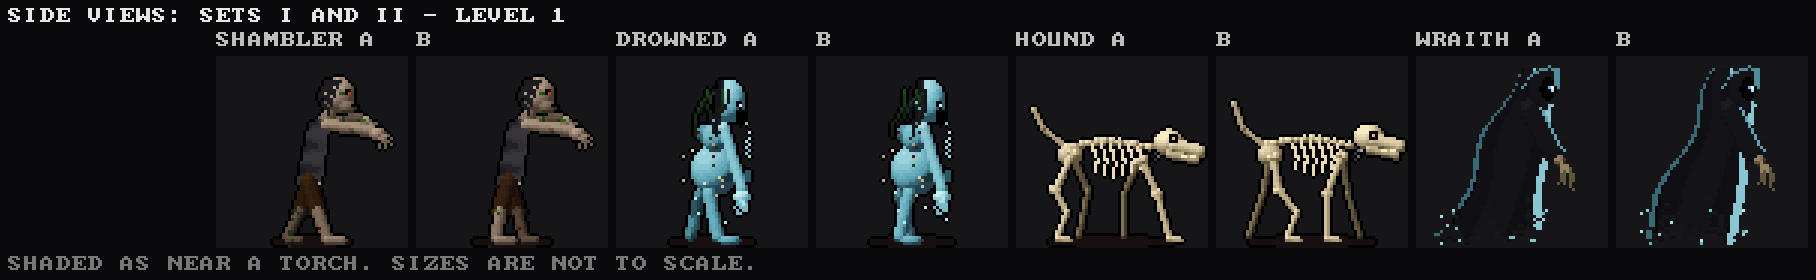
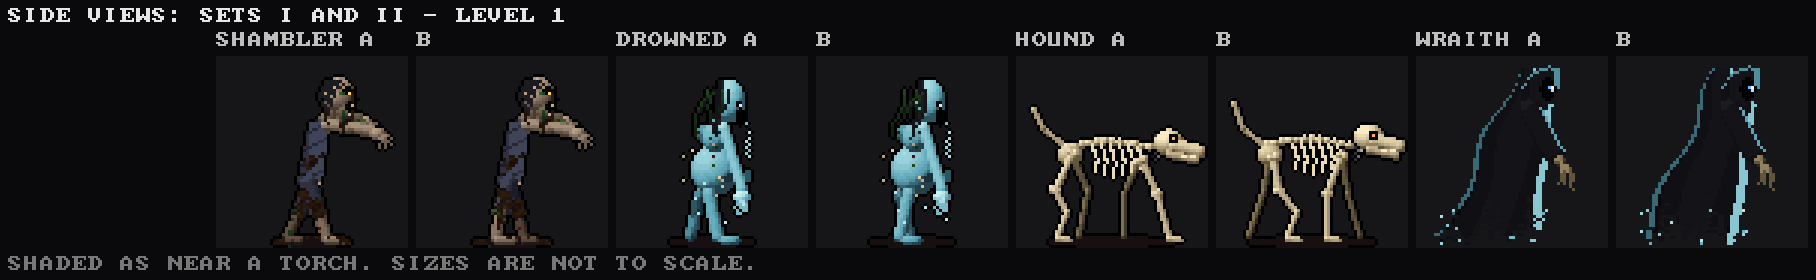
Art pass: the shambler, the buried up again
A hand-drawn face (SHAMB_HEAD): sunken sockets with a sulphur light in
them, the nose rotted to two holes, the jaw dropped on a few yellowed
teeth, hair in clumps. Its shirt is burial linen now, wound round it in
bands, and its legs are bound in it; grave-dirt is clotted on it, more
towards its feet, and roots come out of the tear in its chest. Its ranks:
more linen and grave-mould, frost and a torn ear, an arrow and old blood,
charred under an iron circlet with a grave's shackle, gilt teeth and gold.
The side view matches. Its poses, rising and falling are kept.

Art only: a dream run's events are unchanged; ASan clean.

Claude-Session: https://claude.ai/code/session_015ifzKucNXU48yoPLrSFXC9

diff --git a/src/crawl_art.c b/src/crawl_art.c
@@ -3998,6 +3998,13 @@ static void soil(float cx, float w, int ground, uint32_t seed) {
     for (int i = 0; i < 5; i++) cv_px((int)(cx + (h01(i, 5, seed) - 0.5f) * w * 1.6f), ground - 3 - (int)(5 * h01(i, 6, seed)), sh(R_WOOD, 0.3f));   /* flung earth */
 }
 
+/* the shambler's face (docs/InitialArtPass.md section 8): sunken sockets, the nose rotted to two holes, the jaw dropped
+ * open on yellowed teeth, hair in clumps; hex R_WARM (PF_FLESH), g-v R_IRON for the hair */
+static const char *const SHAMB_HEAD[16] = {
+    "...hjjhj.h...", "..hj6787jh...", ".hj689a986j..", ".j6789aa9875.", ".5679aaa9865.", ".46000900064.", ".460@797@064.",
+    "..520696025..", "..47a0a0a74..", "..4589a9854..", "..3e0e00e03..", "...2000002...", "...3000003...", "...4d00d04...",
+    "....57975....", ".....363.....",
+};
 /* The shambler: a corpse in rags out of its grave, one arm reaching, the other hanging.
  * pose: 0 walking, 1 grabbing, 2-3 climbing out (head and hands, then to the waist), 4 sinking to
  * its knees, 5 down. Its skin is R_WARM (PF_FLESH). */
@@ -4006,9 +4013,9 @@ static void spr_shambler(int id, float w, int pose) {
     int grab = pose == 1 || pose == 2 || pose == 3;
     if (pose == 5) {                                               /* down: lying along the floor, an arm flung out */
         cv_flat(32, 61.5f, 26, 2.5f, R_WARM + 1);
-        cv_capsule(40, 58, 56, 60, 2.6f, R_WOOD, 0.08f, 0.35f);    /* legs */
-        cv_capsule(40, 60, 55, 62, 2.4f, R_WOOD, 0.06f, 0.3f);
-        cv_ellipse(30, 57.5f, 11, 4.2f, R_IRON, 0.08f, 0.4f);      /* the shroud-rag over the chest */
+        cv_capsule(40, 58, 56, 60, 2.6f, R_STONE, 0.1f, 0.4f);     /* legs, bound */
+        cv_capsule(40, 60, 55, 62, 2.4f, R_STONE, 0.08f, 0.35f);
+        cv_ellipse(30, 57.5f, 11, 4.2f, R_STONE, 0.12f, 0.5f);     /* the shroud over the chest */
         cv_capsule(24, 55, 18, 47, 1.8f, R_WARM, 0.35f, 0.9f);      /* an arm up off the floor */
         dead_hand(17, 46, -1.9f, 0.35f, R_WARM, 1.0f);
         cv_ellipse(14, 58, 5.0f, 4.4f, R_WARM, 0.2f, 0.8f);        /* the head, on its side */
@@ -4027,14 +4034,14 @@ static void spr_shambler(int id, float w, int pose) {
         dead_hand(21 + w * 2.5f, sy + 19, 1.7f, 0.25f, R_WARM, 0.9f);
     }
     if (pose == 4) {                                                /* on its knees, shins under it */
-        cv_capsule(27, 50, 22, 61, 2.6f, R_WOOD, 0.08f, 0.35f);
-        cv_capsule(37, 50, 42, 61, 2.6f, R_WOOD, 0.08f, 0.35f);
+        cv_capsule(27, 50, 22, 61, 2.6f, R_STONE, 0.1f, 0.4f);
+        cv_capsule(37, 50, 42, 61, 2.6f, R_STONE, 0.1f, 0.4f);
         cv_capsule(22, 61, 14, 62, 2.0f, R_WARM, 0.3f, 0.75f);
         cv_capsule(42, 61, 50, 62, 2.0f, R_WARM, 0.3f, 0.75f);
     } else {
         for (int s = -1; s <= 1; s += 2) {                          /* legs: rags to the knee, bare shins, a dragging foot */
             float k = s * w, kx = 32 + s * 4.5f - k * 2.0f, fx = 32 + s * 5.0f - k * 3.5f;
-            cv_capsule(32 + s * 3.5f, 42, kx, 52, 2.8f, R_WOOD, 0.06f, 0.33f);
+            cv_capsule(32 + s * 3.5f, 42, kx, 52, 2.8f, R_STONE, 0.12f, 0.42f);   /* bound in linen strips */
             cv_capsule(kx, 51, fx, 60.5f, 2.0f, R_WARM, 0.3f, 0.85f);
             cv_ellipse(fx + s * 1.5f, 61.5f, 3.2f, 1.6f, R_WARM, 0.3f, 0.75f);
         }
@@ -4053,7 +4060,7 @@ static void spr_shambler(int id, float w, int pose) {
             if (y > bot - 1 && h01(x, 7, 215) < 0.3f) continue;     /* ragged hem */
             float fold = 0.5f + 0.5f * sinf((x - cx) * 0.9f + y * 0.15f);
             float v = 0.22f + 0.3f * (1.0f - fabsf(x + 0.5f - cx) / 12.0f) + 0.1f * fold;
-            cv_px(x, y, sh(R_IRON, v));
+            cv_px(x, y, sh(R_STONE, v - 0.02f - (((int)(y + x * 0.5f)) % 5 == 0 ? 0.12f : 0.0f)));   /* burial linen, wound round it, gone grey */
         }
     for (int i = 0; i < 2; i++) {                                   /* ribs showing in the tear, and the rot inside */
         float y = sy + 6 + i * 3.5f;
@@ -4079,28 +4086,58 @@ static void spr_shambler(int id, float w, int pose) {
         cv_capsule(45 + sway, sy + 3, 49 + sway - w * 0.5f, sy + 0, 1.9f, R_WARM, 0.4f, 0.95f);
         dead_hand(50 + sway - w * 0.5f, sy - 1, 0.9f, 0.3f, R_WARM, 1.1f);
     }
-    /* the head: sunken eyes with a dull light in them, a slack jaw, a few strands of hair */
-    cv_ellipse(hx, hy, 6.0f, 6.6f, R_WARM, 0.35f, 1.0f);
-    cv_ellipse(hx + 0.3f, hy + 4.3f, 4.0f, 2.8f, R_WARM, 0.25f, 0.75f);
-    for (int k = -1; k <= 1; k += 2) {
-        cv_flat(hx + k * 2.3f, hy - 0.5f, 1.6f, 1.5f, 0);
-        cv_eye((int)(hx + k * 2.3f), (int)(hy - 0.5f), (uint8_t)(R_FLAME + (grab ? 7 : 4)));
-    }
-    float mo = grab ? 2.2f : 1.2f;                                  /* the mouth, wider when it lunges */
-    cv_flat(hx + 0.4f, hy + 3.6f, 2.0f, mo, 0);
-    for (int i = -1; i <= 1; i++) cv_px((int)(hx + 0.4f + i * 1.2f), (int)(hy + 3.6f - mo + 1), sh(R_BONE, 0.7f));
+    /* the head (SHAMB_HEAD): sunken sockets with a sulphur light in them, the jaw dropped, hair in clumps */
+    grid_stamp(SHAMB_HEAD, 13, 16, (int)(hx - 6.0f), (int)(hy - 7.0f), R_WARM, R_IRON, (uint8_t)(R_FLAME + (grab ? 15 : 13)), 0);
     for (int i = 0; i < 7; i++) {                                   /* lank hair over the crown and down the sides */
-        float a = PI_F * (1.05f + 0.9f * i / 6.0f), x = hx + cosf(a) * 5.6f, y = hy + sinf(a) * 6.2f;
+        float a = PI_F * (1.05f + 0.9f * i / 6.0f), x = hx + cosf(a) * 6.0f, y = hy - 1.0f + sinf(a) * 6.5f;
         float drop = (i == 0 || i == 6) ? 6.0f + 3.0f * h01(i, 2, 219) : 1.5f;
         cv_line(x, y, x + (x < hx ? -0.8f : 0.8f), y + drop, sh(R_IRON, 0.18f + 0.12f * h01(i, 1, 219)));
     }
     cv_rot(R_WARM, 0.6f, 211);
+    for (int y = 0; y < TS; y++)                                    /* grave-dirt clotted on it, more of it lower down */
+        for (int x = 0; x < TS; x++) {
+            uint8_t c = cv_sprite[y * TS + x];
+            if (!((c > R_WARM && c < R_WARM + 16) || (c > R_STONE && c < R_STONE + 16))) continue;
+            float n = fbm(x / 3.0f, y / 3.0f, 16, 213);
+            if (n > 0.74f - (float)y * 0.004f) cv_px(x, y, sh(R_WOOD, 0.06f + 0.14f * h01(x, y, 214)));
+        }
+    if (pose <= 1)                                                  /* roots out of the tear in its chest, from the grave */
+        for (int k = 0; k < 3; k++) {
+            float x = cx - 3.0f + k * 1.5f, y = sy + 8.0f + k * 2.0f, a = 2.2f + k * 0.5f;
+            for (int i = 0; i < 6 + k * 2; i++) { a += (h01(k, i, 217) - 0.5f) * 0.9f; x += cosf(a) * 0.9f; y += sinf(a) * 0.9f; cv_px((int)x, (int)y, sh(R_WOOD, 0.3f + 0.15f * (i & 1))); }
+        }
     if (pose == 2 || pose == 3) {                                   /* climbing out of the grave */
         cv_sink(pose == 2 ? 30 : 14, 58);
         soil(32, 17, 58, 221);
     }
     cv_outline(0);
     cv_store(id);
+}
+
+/* the shambler's dressing by rank (docs/InitialArtPass.md 6.1): II more of its linen hanging, grave-mould; III frost and
+ * an ear torn away; IV an arrow in its shoulder and old blood from the tear and the mouth; V charred, an iron circlet and a
+ * grave's shackle on its wrist; gilded gold leaf and gilt teeth */
+static void shambler_dress(int id, float w, int grab) {
+    float sway = w * 0.8f, hx = 30 + sway, hy = 13 + (grab ? 1.0f : 0.0f), sy = 23, cx = 31.0f + sway * 0.7f;
+    for (int r = RK_II; r < NRANK; r++) {
+        dress_begin(id);
+        if (r != RK_GILDED) {
+            kit_rags(24 + sway, 43, 38 + sway, 44, 9, w, R_STONE, 0.1f, 0.35f, 0, 491);
+            kit_rags(22 + sway, sy, 26 + sway, sy + 1, 6, w * 0.5f, R_STONE, 0.1f, 0.35f, 0, 493);
+        }
+        if (r == RK_II) kit_moss(0.3f, 3, 495);
+        if (r == RK_III) kit_frost(0.75f, 497);
+        if (r >= RK_III && r != RK_GILDED) { cv_px((int)hx + 6, (int)hy - 2, 0); cv_px((int)hx + 6, (int)hy - 1, 0); cv_px((int)hx + 5, (int)hy - 3, 0); }   /* an ear gone */
+        if (r >= RK_IV && r != RK_GILDED) { kit_arrow(38 + sway, sy + 2, -0.9f, 8.0f); kit_blood(cx - 3, sy + 12, 10, 2, 499); kit_blood(hx, hy + 6, 7, 2, 501); }
+        if (r == RK_V) { kit_char(0.3f, 503); kit_crown(hx, hy - 7, 11, 505); if (!grab) kit_chain(21 + w * 2.5f, sy + 19, 19 + w * 2.0f, sy + 33, 1.5f, R_IRON); }
+        if (r == RK_GILDED) {
+            kit_gold(R_WARM, 0.5f, 507);
+            for (int y = (int)hy + 2; y < (int)hy + 8; y++)                                   /* gilt teeth */
+                for (int x = (int)hx - 5; x <= (int)hx + 5; x++) { uint8_t b = base_c(x, y); if (b >= R_WARM + 12 && b < R_WARM + 16) cv_px(x, y, (uint8_t)(R_GOLD + 11)); }
+            kit_chain(24 + sway, sy + 2, 38 + sway, sy + 2, 2.5f, R_GOLD);
+        }
+        dress_store(id, r, R_WARM);
+    }
 }
 
 /* the water a drowned one rises from, or the foul pool it leaves when it bursts */
@@ -5712,7 +5749,7 @@ static void spr_wskull_side(void) {                         /* the master profil
 static void spr_shambler_side(int id, float w) {
     cv_begin(cv_sprite, TS, TS);
     cv_flat(32, 62, 14, 1.8f, R_WARM + 1);
-    cv_capsule(31, 42, 31 - 3 * w, 52, 2.6f, R_WOOD, 0.04f, 0.25f);   /* the far leg */
+    cv_capsule(31, 42, 31 - 3 * w, 52, 2.6f, R_STONE, 0.05f, 0.28f);  /* the far leg, bound in linen */
     cv_capsule(31 - 3 * w, 52, 30 - 6 * w, 60.5f, 1.8f, R_WARM, 0.15f, 0.5f);
     cv_capsule(30 - 6 * w, 61.5f, 34 - 6 * w, 61.5f, 1.4f, R_WARM, 0.15f, 0.5f);
     cv_capsule(35, 22, 48, 21, 1.8f, R_WARM, 0.15f, 0.55f);        /* the far arm, out ahead */
@@ -5723,20 +5760,28 @@ static void spr_shambler_side(int id, float w) {
         for (int x = 24; x <= 40; x++) {
             uint8_t c = cv_sprite[y * TS + x];
             if (c < R_WARM || c >= R_WARM + 16 || (y > 41 && h01(x, 7, 961) < 0.35f)) continue;
-            cv_px(x, y, sh(R_IRON, 0.22f + 0.25f * (x - 24) / 16.0f + 0.08f * sinf(y * 0.8f)));
+            cv_px(x, y, sh(R_STONE, 0.2f + 0.25f * (x - 24) / 16.0f - (((int)(y + x * 0.5f)) % 5 == 0 ? 0.12f : 0.0f)));   /* burial linen, wound */
         }
-    cv_capsule(31, 42, 31 + 3 * w, 52, 2.8f, R_WOOD, 0.06f, 0.33f);   /* the near leg */
+    cv_capsule(31, 42, 31 + 3 * w, 52, 2.8f, R_STONE, 0.1f, 0.4f);    /* the near leg, bound */
     cv_capsule(31 + 3 * w, 52, 32 + 5 * w, 60.5f, 2.0f, R_WARM, 0.3f, 0.8f);
     cv_capsule(32 + 5 * w, 61.5f, 37 + 5 * w, 61.5f, 1.5f, R_WARM, 0.3f, 0.8f);
     cv_capsule(37, 21, 39, 16, 2.2f, R_WARM, 0.3f, 0.75f);         /* the neck, craned */
     cv_ellipse(41, 13, 5.2f, 6.0f, R_WARM, 0.35f, 1.0f);            /* the head, hung forward */
-    cv_ellipse(44, 17, 3.0f, 2.2f, R_WARM, 0.25f, 0.7f);           /* the slack jaw */
-    cv_flat(44, 12, 1.4f, 1.3f, 0); cv_px(44, 12, (uint8_t)(R_FLAME + 4));
-    cv_flat(46, 16.5f, 1.2f, 1.0f, 0);
+    cv_ellipse(43, 19, 3.0f, 2.6f, R_WARM, 0.2f, 0.6f);            /* the jaw, dropped */
+    cv_flat(44.5f, 17, 1.8f, 1.8f, 0);                              /* the mouth hanging open, a tooth or two */
+    cv_px(45, 16, sh(R_WARM, 0.95f)); cv_px(44, 19, sh(R_WARM, 0.9f));
+    cv_flat(44, 11.5f, 1.6f, 1.5f, 0); cv_eye(44, 12, (uint8_t)(R_FLAME + 13));   /* a sunken socket, its sulphur light */
+    cv_px(46, 14, 0);                                               /* the nose, rotted to a hole */
     for (int i = 0; i < 5; i++) cv_line(37 + i, 8, 34 + i * 0.8f, 13 + i * 1.5f, sh(R_IRON, 0.2f));   /* hair, down the back */
     cv_capsule(37, 23, 52, 25, 2.0f, R_WARM, 0.35f, 0.9f);         /* the near arm, reaching */
     dead_hand(54, 26, 0.6f, 0.35f, R_WARM, 1.1f);
     cv_rot(R_WARM, 0.6f, 963);
+    for (int y = 0; y < TS; y++)                                    /* grave-dirt clotted on it */
+        for (int x = 0; x < TS; x++) {
+            uint8_t c = cv_sprite[y * TS + x];
+            if (((c > R_WARM && c < R_WARM + 16) || (c > R_STONE && c < R_STONE + 16)) && fbm(x / 3.0f, y / 3.0f, 16, 213) > 0.74f - (float)y * 0.004f)
+                cv_px(x, y, sh(R_WOOD, 0.06f + 0.14f * h01(x, y, 214)));
+        }
     cv_outline(0);
     cv_store(id);
 }
@@ -9326,6 +9371,7 @@ void crawl_art_init(void) {
     for (int f = 0; f < 3; f++) spr_firepit(SP_FIREPIT_A + f, f);
     spr_totem(SP_TOTEM_A, 0); spr_totem(SP_TOTEM_B, 1);
     spr_shambler(SP_SHAMB_A, 1.0f, 0); spr_shambler(SP_SHAMB_B, -1.0f, 0); spr_shambler(SP_SHAMB_GRAB, 0.0f, 1);
+    shambler_dress(SP_SHAMB_A, 1.0f, 0); shambler_dress(SP_SHAMB_B, -1.0f, 0); shambler_dress(SP_SHAMB_GRAB, 0.0f, 1);
     spr_shambler(SP_SHAMB_RISE1, 0.0f, 2); spr_shambler(SP_SHAMB_RISE2, 0.0f, 3); spr_shambler(SP_SHAMB_D1, 0.0f, 4); spr_shambler(SP_SHAMB_D2, 0.0f, 5);
     spr_drowned(SP_DROWN_A, 1.0f, 0); spr_drowned(SP_DROWN_B, -1.0f, 1); spr_drowned(SP_DROWN_GRAB, 0.0f, 2);
     drowned_dress(SP_DROWN_A, 0); drowned_dress(SP_DROWN_B, 0); drowned_dress(SP_DROWN_GRAB, 1);

diff --git a/docs/InitialArtPass.md b/docs/InitialArtPass.md
@@ -735,7 +735,8 @@ of usage leaves the next one a true account. **Read it before anything else in t
 | 8. The imp | done, for the owner's eye | `IMP_HEAD` (17 by 17), `IMP_SIDE` (15 by 15), `imp_crust`, `spr_imp`, `spr_imp_side`, `imp_dress` in `src/crawl_art.c`; `grid_stamp` (any hand-drawn grid: hex the body's ramp, g-v a second ramp, A-P the fire, 0, @, .); review `docs/artpass/review/imp.png`, `imp_game.png`, `sides4.png` | re-proportioned (A4 c): no pot belly; a narrow chest, wiry arms to the knee with talons, reverse-jointed legs, ragged bat wings behind, a tail with an ember; the head a horned, torn-eared, long-muzzled face with slit eyes and a lit grin of needles, the right horn broken. Ranks: II mould and torn wings, III frost and a chipped horn, IV the fissures opened and a wound in the chest, V black crust veined all over with fire under an iron collar and chain, gilded gold in every crack. Events unchanged, ASan clean |
 | 9. The gargoyle | done, for the owner's eye | `GARG_FACE` (15 by 17), `GARG_SIDE` (14 by 15), `garg_head` (bull's horns, the right one broken short; fin ears), `garg_wing_front`, `garg_weather` (rain stains from the eyes and mouth, lichen in the hollows, the cracks alight once awake), `spr_gargoyle`, `garg_dress`, and the side view's head in `spr_garg_side`; `grid_stamp` draws `@` as blank stone when its eye is 0; review `docs/artpass/review/gargoyle.png`, `gargoyle_game.png`, `gargoyle_v_game.png`, `sides4.png` | re-proportioned: slab shoulders, a hunched chest, wings folded high round it on its plinth like a cloak, spread and torn in flight. Perched, its eyes are blank stone and nothing shows in the dark (A11); the statues in the alcoves are the same sprite. Ranks: II moss and torn wings, III frost and a chipped horn, IV rust run down it and a wing cracked through, V black basalt with thin veins of cold light under an iron collar, gilded gold in its veins. A bounds fault in the rain's loop was found by UBSan and fixed before the commit; ASan clean after; events unchanged |
 | 10. The Drowned | done, for the owner's eye | `DROWN_HEAD` (13 by 15), `spr_drowned`, `drowned_dress`, `spr_drowned_side` in `src/crawl_art.c`; a rank family of its own, `PF_DROWN` (`src/crawl.h`, the `BODY` table in `build_rank_luts`, `KINDS[MOB_DROWNED]` in `src/scene_crawl.c`, `tools/sheet.c`); review `docs/artpass/review/drowned.png`, `drowned_game.png`, `sides2.png` | re-proportioned: a gaunt, too-tall frame round a belly swollen tight with veins and a splitting seam; ribs, sloping shoulders, thin arms past the knees with long fingers; a long face, hair plastered down it, small cold eyes in deep sockets, a slack black mouth; a bruise at the throat; the Order's shroud sodden down its left side; a rope round the ankle to a stone; weed, barnacles, drips. Its skin is the ghost ramp, never the walls' stone. Rank III goes bone-pale (the cold rank's ramp is its own skin's, so the old rule sends it pale). Ranks: II mould and more of the shroud torn, III frost and the seam split, IV bleeding from its seams and mouth, V black, an iron crown and a chain to its stone, gilded gold gone green. Rise, burst and pool kept. `drowned_pool` was lost in the rewrite and restored from git before the commit. The side view is better (a long face, a smaller belly) but not yet as good as the front |
-| 11. The shambler | next | `spr_shambler`, `spr_shambler_side` | section 8, tier B: the buried, grave-dirt on a grey-yellow body, burial linen in rags, roots through the ribs, the jaw dropped, arms always reaching |
+| 11. The shambler | done, for the owner's eye | `SHAMB_HEAD` (13 by 16), `spr_shambler`, `shambler_dress`, `spr_shambler_side` in `src/crawl_art.c`; review `docs/artpass/review/shambler.png`, `shambler_game.png`, `sides2.png` | the buried: a hand-drawn face (sunken sockets with a sulphur light, the nose rotted to holes, the jaw dropped on a few yellowed teeth, hair in clumps); its grey shirt now burial linen wound in bands, its legs bound in it; grave-dirt clotted on it, more towards the feet; roots out of the tear in its chest. Its poses (walk, grab, the two rising, kneeling, down) kept. Ranks: II more linen and grave-mould, III frost and an ear gone, IV an arrow in the shoulder and old blood from the tear and mouth, V charred under an iron circlet with a grave's shackle, gilded gold leaf and gilt teeth. The first head was a square with a grille of teeth and was redrawn narrower before the commit. Events unchanged, ASan clean |
+| 12. The ghoul | next | `spr_ghoul`, `spr_ghoul_side` | section 8, tier B: starved, long, grey-green, skin tight over ribs and spine, a hunched ape stance, a jaw that unhinges, claws; less bulk, more hunger; the feeding pose in a mess of bone |
 
 ### How to pick it up
 
